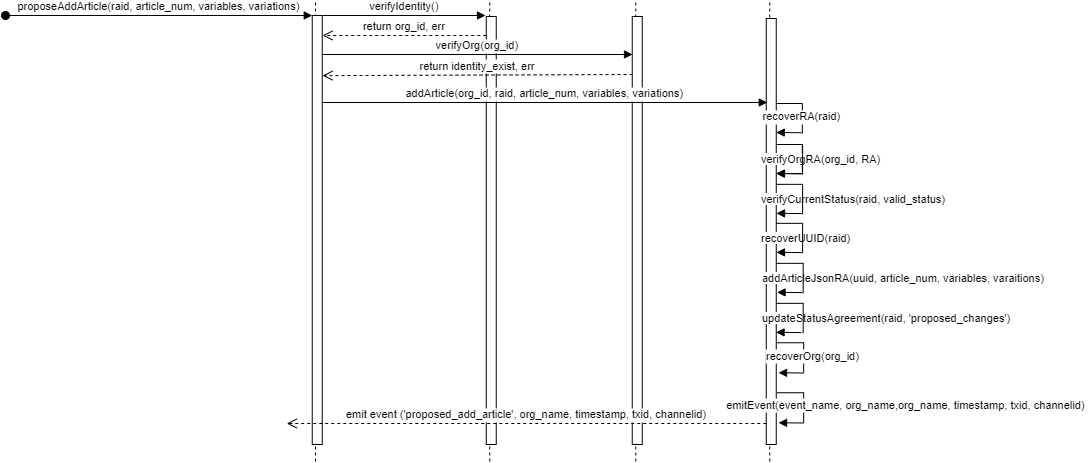
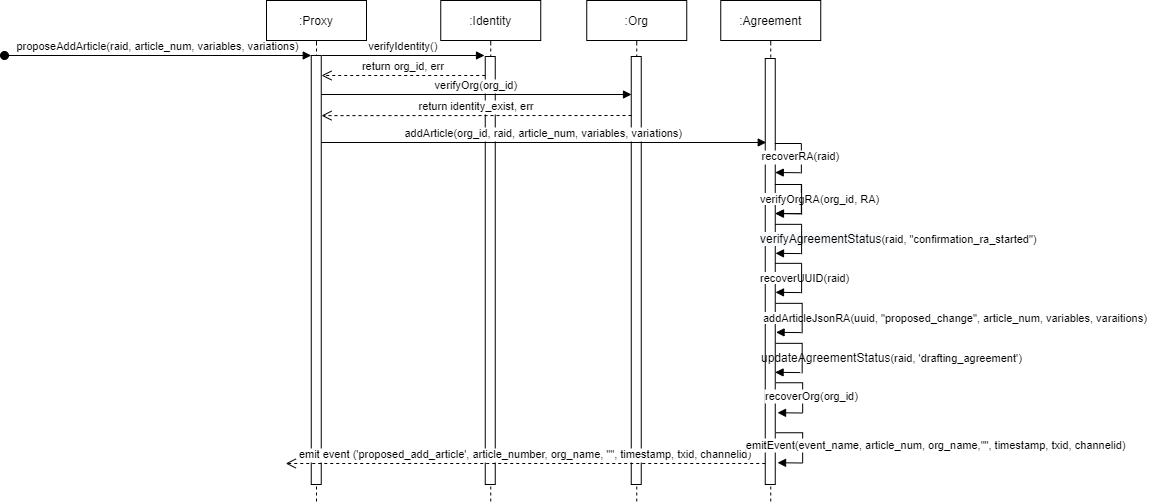
18.08.21.9

Changed region(s): [[0.0, 0.0, 1.0, 0.9676], [0.5, 0.0, 0.5312, 0.0302]]

diff --git a/chaincode/implementation/proxy.go b/chaincode/implementation/proxy.go
@@ -379,7 +379,7 @@ func (cc *Chaincode) addArticle(stub shim.ChaincodeStubInterface, org_id string,
     }
 
     valid_status := "confirmation_ra_started"
-    err = cc.verifyAgreementStatus(stub, raid, valid_status[0:])
+    err = cc.verifyAgreementStatus(stub, raid, valid_status)
     if err != nil {
         log.Errorf("[%s][verifyAgreementStatus][%s]", CHANNEL_ENV, ERRORStatusRA)
         return errors.New(ERRORStatusRA)

diff --git a/chaincode/README.md b/chaincode/README.md
@@ -11,52 +11,55 @@
 4. To open the file `states_diagram.drawio` using [App Diagrams Tool](https://app.diagrams.net/)
 
 ### Register organization
-|Method                    | Event                  | State                 |
-|:------------------------:|:----------------------:|:---------------------:|
-|addOrg                    |created_org             |-                      |
+|Method                    | Event                  | Roaming Agreement State| Article State          |
+|:------------------------:|:----------------------:|:----------------------:|:----------------------:|
+|addOrg                    |created_org             |-                       |-                       |
 - Any MNO must be registered before drafting a roaming agreement.
 - Identity is verified at each interaction.
-- No status is set
+- No state is set
 - An event is emitted to set the state `created_org`.
 <img src="https://github.com/sfl0r3nz05/NLP-DLT/blob/main/chaincode/design/images/01.png">       
 <img src="https://github.com/sfl0r3nz05/NLP-DLT/blob/main/chaincode/design/images/02.png">
 
 ### Proposal for start agreement
-|Method                    | Event                  | State                 |
-|:------------------------:|:----------------------:|:---------------------:|
-|proposeAgreementInitiation|started_ra              |started_ra             |
+|Method                    | Event                  | Roaming Agreement State| Article State          |
+|:------------------------:|:----------------------:|:----------------------:|:----------------------:|
+|proposeAgreementInitiation|started_ra              |started_ra              |-                       |
 - A registered organization is enabled to draft a Roaming Agreement.
 - Identity is verified at each interaction.
 - The inputs are two `json org` and `json jsonRA`.
 - The `json jsonRA` provides basic information of the Roaming Agreement.
 - The `RAID` is generated.
     - `RAID` is accesible for all MNOs.
-- The Roaming Agreement status is set as `started_ra`.
+- The Roaming Agreement state is set as `started_ra`.
 - The `started_ra` event is emitted.
 <img src="https://github.com/sfl0r3nz05/NLP-DLT/blob/main/chaincode/design/images/03.png">       
 <img src="https://github.com/sfl0r3nz05/NLP-DLT/blob/main/chaincode/design/images/04.png">
 
 ### Confirmation of Started Agreement
-|Method                    | Event                  | State                 |
-|:------------------------:|:----------------------:|:---------------------:|
-|acceptAgreementInitiation |confirmation_ra_started |confirmation_ra_started|
+|Method                    | Event                  | Roaming Agreement State| Article State          |
+|:------------------------:|:----------------------:|:----------------------:|:----------------------:|
+|acceptAgreementInitiation |confirmation_ra_started |confirmation_ra_started |-                       |
 - For the roaming agreement drafting to be valid, the other MNO must confirm it.
 - Identity is verified at each interaction.
 - The input is `RAID`.
 - The `RAID` is obtained in the frontend.
-- The Roaming Agreement status is set as `confirmation_ra_started`.
+- The Roaming Agreement state is set as `confirmation_ra_started`.
 - The `confirmation_ra_started` event is emitted.
 <img src="https://github.com/sfl0r3nz05/NLP-DLT/blob/main/chaincode/design/images/05.png">       
 <img src="https://github.com/sfl0r3nz05/NLP-DLT/blob/main/chaincode/design/images/06.png">
 
 ### Proposal for add article
-|Method                    | Event                  | State                 |
-|:------------------------:|:----------------------:|:---------------------:|
-|proposeAddArticle         |proposed_add_article    |proposed_changes       |
-- The drafting of the Roaming Agreement involves to add article by article. 
-- Identity is verified.
-- The inputs are `json org`, `RAID`, `article_num` and `jsonArticle`.
-- The previous state (`confirm_ra_started`) is verified.
+|Method                    | Event                  | Roaming Agreement State| Article State          |
+|:------------------------:|:----------------------:|:----------------------:|:----------------------:|
+|proposeAddArticle         |proposed_add_article    |drafting_agreement      |proposed_changes        |
+- The drafting of the Roaming Agreement involves to add article by article.
+- Each article will independently manage its own state.
+- The article statte is set to `proposed_change`.
+- Identity is verified at each interaction.
+- The inputs are `RAID`, `article_num`, `variables` and `variations`.
+- The previous state of the Roamming Agreement (`confirm_ra_started`) is verified.
+- A new state of the Roamming Agreement is set to `drafting_agreement`.
 - An event is emitted once the state `proposed_changes` is set.
 <img src="https://github.com/sfl0r3nz05/NLP-DLT/blob/main/chaincode/design/images/07.png">       
 <img src="https://github.com/sfl0r3nz05/NLP-DLT/blob/main/chaincode/design/images/08.png">
